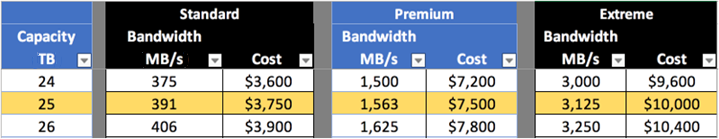
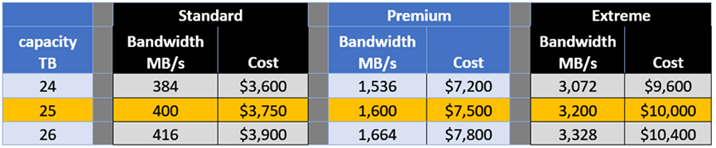
Built from 01fbd2a

diff --git a/aws/reference_selecting_service_level_and_quota.html b/aws/reference_selecting_service_level_and_quota.html
@@ -1575,7 +1575,7 @@
 <div class="sect2">
 <h3 id="example-1">Example 1</h3>
 <div class="paragraph">
-<p>For example, your application needs 25 TB of capacity and 100 MB/s of bandwidth. At 25 TB of capacity, the Standard service level would provide 391 MB/s of bandwidth at a cost of $3,750, making Standard the most suitable service level in this case.</p>
+<p>For example, your application requires 25 TB of capacity and 100 MB/s of bandwidth. At 25 TB of capacity, the Standard service level would provide 400 MB/s of bandwidth at a cost of $3,750, making Standard the most suitable service level in this case.</p>
 </div>
 <div class="paragraph">
 <p><span class="image"><img src="./media/diagram_service_level_quota_example1.png" alt="Service level and quota selection" width="example 1"></span></p>
@@ -1584,7 +1584,7 @@
 <div class="sect2">
 <h3 id="example-2">Example 2</h3>
 <div class="paragraph">
-<p>For example, your application needs 12 TB of capacity and 800 MB of peak bandwidth.  Although the Extreme service level can meet the demands of the application at the 12 TB mark, it is more cost-effective to select 14 TB at the Premium service level, resulting in a saving of $600 per month.</p>
+<p>For example, your application requires 12 TB of capacity and 800 MB/s of peak bandwidth.  Although the Extreme service level can meet the demands of the application at the 12 TB mark, it is more cost-effective to select 13 TB at the Premium service level.</p>
 </div>
 <div class="paragraph">
 <p><span class="image"><img src="./media/diagram_service_level_quota_example2.png" alt="Service level and quota selection" width="example 2"></span></p>

diff --git a/en/aws/reference_selecting_service_level_and_quota.html b/en/aws/reference_selecting_service_level_and_quota.html
@@ -1575,7 +1575,7 @@
 <div class="sect2">
 <h3 id="example-1">Example 1</h3>
 <div class="paragraph">
-<p>For example, your application needs 25 TB of capacity and 100 MB/s of bandwidth. At 25 TB of capacity, the Standard service level would provide 391 MB/s of bandwidth at a cost of $3,750, making Standard the most suitable service level in this case.</p>
+<p>For example, your application requires 25 TB of capacity and 100 MB/s of bandwidth. At 25 TB of capacity, the Standard service level would provide 400 MB/s of bandwidth at a cost of $3,750, making Standard the most suitable service level in this case.</p>
 </div>
 <div class="paragraph">
 <p><span class="image"><img src="./media/diagram_service_level_quota_example1.png" alt="Service level and quota selection" width="example 1"></span></p>
@@ -1584,7 +1584,7 @@
 <div class="sect2">
 <h3 id="example-2">Example 2</h3>
 <div class="paragraph">
-<p>For example, your application needs 12 TB of capacity and 800 MB of peak bandwidth.  Although the Extreme service level can meet the demands of the application at the 12 TB mark, it is more cost-effective to select 14 TB at the Premium service level, resulting in a saving of $600 per month.</p>
+<p>For example, your application requires 12 TB of capacity and 800 MB/s of peak bandwidth.  Although the Extreme service level can meet the demands of the application at the 12 TB mark, it is more cost-effective to select 13 TB at the Premium service level.</p>
 </div>
 <div class="paragraph">
 <p><span class="image"><img src="./media/diagram_service_level_quota_example2.png" alt="Service level and quota selection" width="example 2"></span></p>

diff --git a/us-en/aws/reference_selecting_service_level_and_quota.html b/us-en/aws/reference_selecting_service_level_and_quota.html
@@ -1575,7 +1575,7 @@
 <div class="sect2">
 <h3 id="example-1">Example 1</h3>
 <div class="paragraph">
-<p>For example, your application needs 25 TB of capacity and 100 MB/s of bandwidth. At 25 TB of capacity, the Standard service level would provide 391 MB/s of bandwidth at a cost of $3,750, making Standard the most suitable service level in this case.</p>
+<p>For example, your application requires 25 TB of capacity and 100 MB/s of bandwidth. At 25 TB of capacity, the Standard service level would provide 400 MB/s of bandwidth at a cost of $3,750, making Standard the most suitable service level in this case.</p>
 </div>
 <div class="paragraph">
 <p><span class="image"><img src="./media/diagram_service_level_quota_example1.png" alt="Service level and quota selection" width="example 1"></span></p>
@@ -1584,7 +1584,7 @@
 <div class="sect2">
 <h3 id="example-2">Example 2</h3>
 <div class="paragraph">
-<p>For example, your application needs 12 TB of capacity and 800 MB of peak bandwidth.  Although the Extreme service level can meet the demands of the application at the 12 TB mark, it is more cost-effective to select 14 TB at the Premium service level, resulting in a saving of $600 per month.</p>
+<p>For example, your application requires 12 TB of capacity and 800 MB/s of peak bandwidth.  Although the Extreme service level can meet the demands of the application at the 12 TB mark, it is more cost-effective to select 13 TB at the Premium service level.</p>
 </div>
 <div class="paragraph">
 <p><span class="image"><img src="./media/diagram_service_level_quota_example2.png" alt="Service level and quota selection" width="example 2"></span></p>
